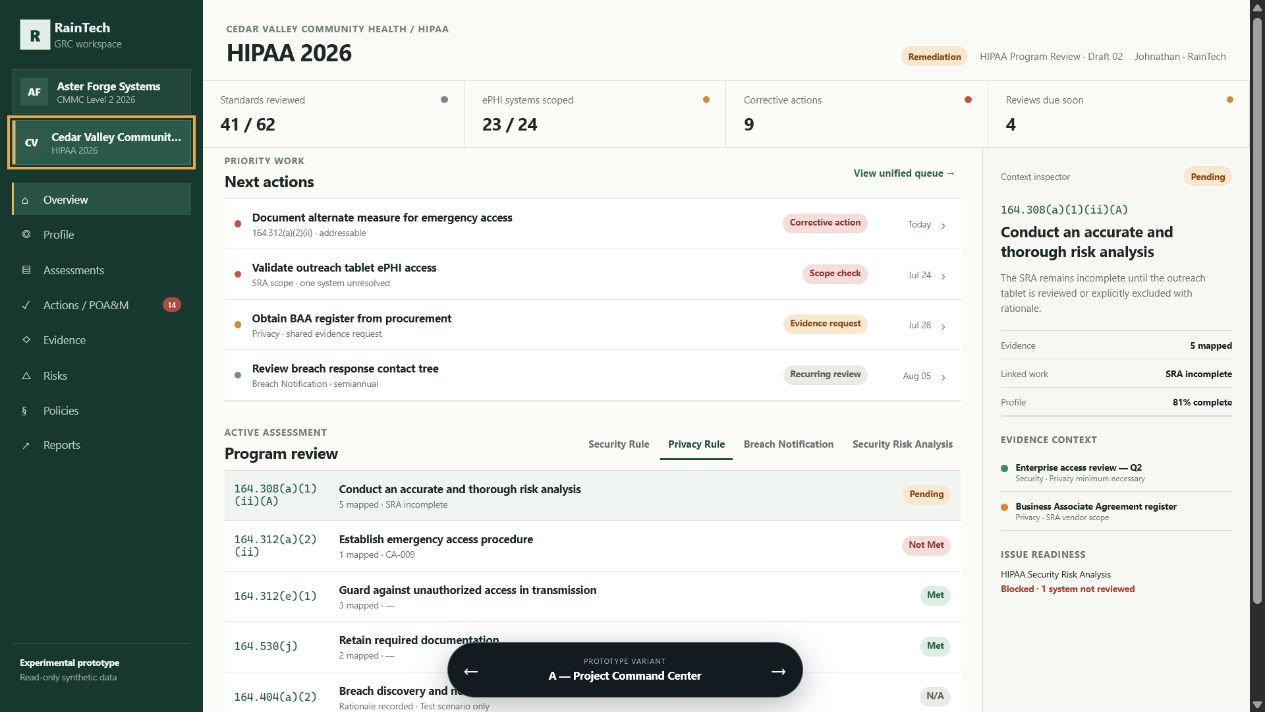
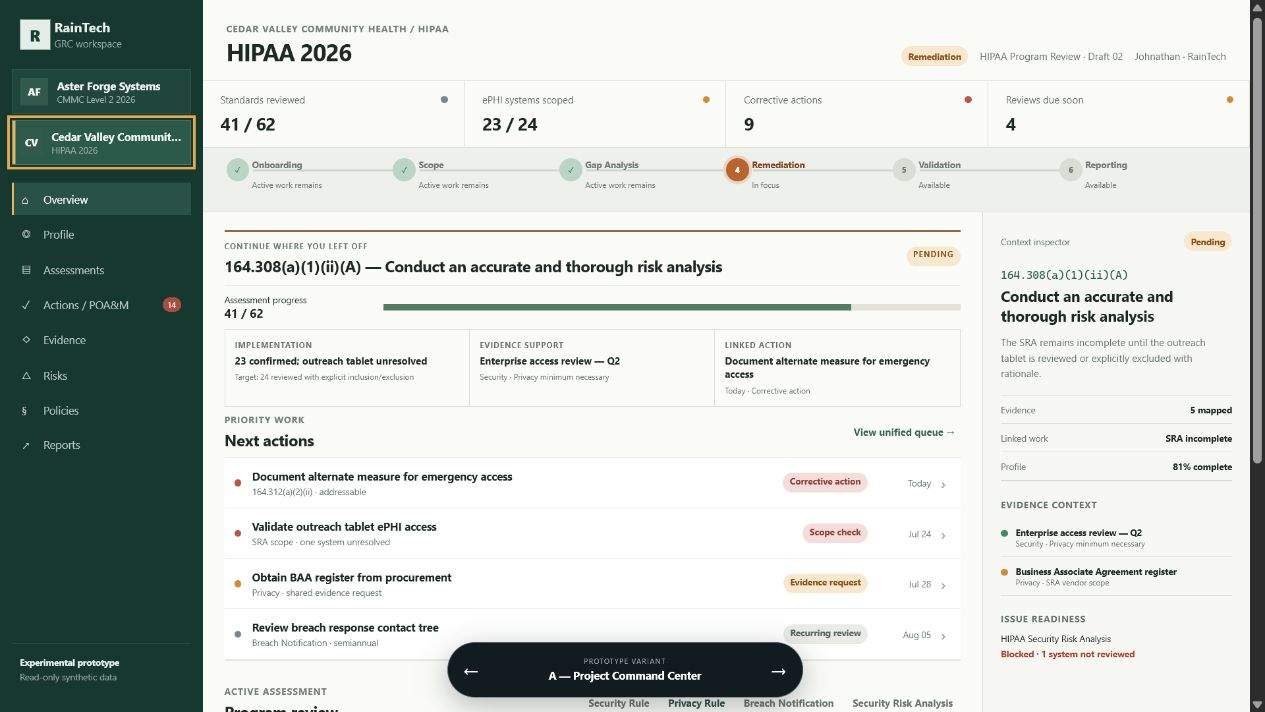
Refine Variant A with guided overview context

diff --git a/prototypes/v1-project-workspace/src/styles.css b/prototypes/v1-project-workspace/src/styles.css
@@ -92,8 +92,32 @@ i.good { background: #3c8d63; } i.warn { background: #d48a33; } i.bad { backgrou
 .sidebar-foot { margin-top: auto; padding: 12px 8px; border-top: 1px solid #34564d; display: flex; flex-direction: column; gap: 3px; font-size: 9px; }
 .sidebar-foot span { color: #97aaa4; }
 .a-main { grid-column: 2; min-width: 0; }
-.a-workspace { display: grid; grid-template-columns: minmax(600px, 1fr) 270px; gap: 0; max-width: 1380px; margin: auto; background: var(--paper); min-height: calc(100vh - 148px); }
+.a-phase-rail { display: grid; grid-template-columns: repeat(6, 1fr); padding: 11px 24px; border-bottom: 1px solid var(--line); background: #eef1eb; }
+.a-phase-rail > div { position: relative; min-height: 43px; display: grid; grid-template-columns: 26px 1fr; grid-template-rows: 21px 16px; text-align: left; color: #707a76; }
+.a-phase-rail > div::after { content: ""; height: 2px; background: #cfd5ce; position: absolute; left: 27px; right: -3px; top: 11px; z-index: 0; }
+.a-phase-rail > div:last-child::after { display: none; }
+.a-phase-rail i { z-index: 1; grid-row: 1 / 3; width: 23px; height: 23px; display: grid; place-items: center; border-radius: 50%; background: #d9ddd6; font-size: 8px; font-style: normal; font-weight: 800; }
+.a-phase-rail span { z-index: 1; font-size: 9px; font-weight: 700; }
+.a-phase-rail small { z-index: 1; font-size: 8px; white-space: nowrap; }
+.a-phase-rail > div.done i { background: #bad5c5; color: #285b45; }
+.a-phase-rail > div.active { color: #7c431e; }
+.a-phase-rail > div.active i { background: #b9642e; color: white; box-shadow: 0 0 0 3px #ead5c6; }
+.a-workspace { display: grid; grid-template-columns: minmax(600px, 1fr) 270px; gap: 0; max-width: 1380px; margin: auto; background: var(--paper); min-height: calc(100vh - 214px); }
 .a-workspace > section { padding: 0 22px 100px; min-width: 0; border-right: 1px solid var(--line); }
+.a-resume { margin-top: 18px; border-top: 2px solid #9a6540; border-bottom: 1px solid var(--line); }
+.a-resume-head { min-height: 53px; display: flex; align-items: center; justify-content: space-between; gap: 16px; }
+.a-resume-head > div { min-width: 0; }
+.a-resume-head span { display: block; margin-bottom: 4px; color: #75807b; font-size: 8px; font-weight: 700; letter-spacing: .09em; text-transform: uppercase; }
+.a-resume-head h2 { white-space: nowrap; overflow: hidden; text-overflow: ellipsis; }
+.a-resume-progress { min-height: 45px; display: grid; grid-template-columns: 145px 1fr; align-items: center; gap: 16px; border-top: 1px solid var(--line); }
+.a-resume-progress > div:first-child { display: flex; flex-direction: column; font-size: 9px; }
+.a-resume-progress b { font-size: 12px; }
+.a-resume-context { display: grid; grid-template-columns: repeat(3, 1fr); border: 1px solid var(--line); border-bottom: 0; }
+.a-resume-context > div { min-height: 77px; padding: 10px; border-right: 1px solid var(--line); display: flex; flex-direction: column; gap: 4px; }
+.a-resume-context > div:last-child { border-right: 0; }
+.a-resume-context span { color: var(--muted); font-size: 8px; font-weight: 700; letter-spacing: .07em; text-transform: uppercase; }
+.a-resume-context b { font-size: 10px; line-height: 1.35; }
+.a-resume-context small { font-size: 8px; line-height: 1.35; }
 .a-inspector { padding: 19px 18px 100px; background: #f7f8f4; }
 .inspector-head { display: flex; justify-content: space-between; align-items: center; font-size: 9px; color: var(--muted); margin-bottom: 18px; }
 .a-inspector > code { display: block; margin-bottom: 5px; }
@@ -223,6 +247,8 @@ i.good { background: #3c8d63; } i.warn { background: #d48a33; } i.bad { backgrou
 @media (max-width: 1250px) {
   .a-workspace { grid-template-columns: minmax(560px, 1fr) 245px; }
   .a-inspector { padding-inline: 14px; }
+  .a-phase-rail { padding-inline: 16px; }
+  .a-phase-rail small { display: none; }
   .b-flow { grid-template-columns: minmax(590px, 1fr) 275px; gap: 20px; }
   .phase-rail { padding-inline: 16px; }
   .phase-rail small { display: none; }

diff --git a/prototypes/v1-project-workspace/src/main.tsx b/prototypes/v1-project-workspace/src/main.tsx
@@ -190,8 +190,11 @@ function ProfileTable({ project }: { project: Project }) {
   return <div className="profile-table"><div className="profile-head"><span>Profile fact</span><span>Current environment</span><span>Target / required delta</span></div>{project.profileFacts.map((fact) => <div key={fact.label}><b>{fact.label}</b><span>{fact.current}</span><span>{fact.target}</span></div>)}</div>;
 }
 
+const phases = ["Onboarding", "Scope", "Gap Analysis", "Remediation", "Validation", "Reporting"];
+
 function VariantA({ project, framework, onProjectChange }: { project: Project; framework: Framework; onProjectChange: (value: Framework) => void }) {
   const nav = ["Overview", "Profile", "Assessments", "Actions / POA&M", "Evidence", "Risks", "Policies", "Reports"];
+  const activePhase = project.phase === "Gap Analysis" ? 2 : 3;
   return (
     <div className="variant-a">
       <aside className="a-sidebar">
@@ -203,8 +206,32 @@ function VariantA({ project, framework, onProjectChange }: { project: Project; f
       <main className="a-main">
         <Identity project={project} />
         <Metrics project={project} />
+        <div className="a-phase-rail" aria-label="Engagement phases">
+          {phases.map((phase, index) => (
+            <div className={index === activePhase ? "active" : index < activePhase ? "done" : ""} key={phase}>
+              <i>{index < activePhase ? "✓" : index + 1}</i>
+              <span>{phase}</span>
+              <small>{index === activePhase ? "In focus" : index < activePhase ? "Active work remains" : "Available"}</small>
+            </div>
+          ))}
+        </div>
         <div className="a-workspace">
           <section>
+            <div className="a-resume">
+              <div className="a-resume-head">
+                <div><span>Continue where you left off</span><h2>{project.requirements[0].id} — {project.requirements[0].title}</h2></div>
+                <Pill tone="warn">{project.requirements[0].status}</Pill>
+              </div>
+              <div className="a-resume-progress">
+                <div><span>Assessment progress</span><b>{project.metrics[0].value}</b></div>
+                <div className="bar"><i style={{ width: `${project.profile}%` }} /></div>
+              </div>
+              <div className="a-resume-context">
+                <div><span>Implementation</span><b>{project.profileFacts[0].current}</b><small>Target: {project.profileFacts[0].target}</small></div>
+                <div><span>Evidence support</span><b>{project.evidence[0].title}</b><small>{project.evidence[0].mappings}</small></div>
+                <div><span>Linked action</span><b>{project.actions[0].title}</b><small>{project.actions[0].due} · {project.actions[0].kind}</small></div>
+              </div>
+            </div>
             <div className="section-title"><div><span>Priority work</span><h2>Next actions</h2></div><button>View unified queue →</button></div>
             <ActionRows project={project} />
             <div className="section-title tight"><div><span>Active assessment</span><h2>{project.framework === "CMMC" ? "Requirement review" : "Program review"}</h2></div><div className="tabs">{project.frameworkAreas.slice(0, 4).map((area, i) => <button className={i === 1 ? "active" : ""} key={area}>{area}</button>)}</div></div>
@@ -226,8 +253,6 @@ function VariantA({ project, framework, onProjectChange }: { project: Project; f
     </div>
   );
 }
-
-const phases = ["Onboarding", "Scope", "Gap Analysis", "Remediation", "Validation", "Reporting"];
 
 function VariantB({ project, framework, onProjectChange }: { project: Project; framework: Framework; onProjectChange: (value: Framework) => void }) {
   const activePhase = project.phase === "Gap Analysis" ? 2 : 3;

diff --git a/docs/prototypes/v1-ui-prototype-review.md b/docs/prototypes/v1-ui-prototype-review.md
@@ -39,13 +39,23 @@ project selector.
 
 ## Selection Record
 
-After review, record:
+Initial direction selected by Johnathan:
 
-- selected shell
-- selected assessment workspace
-- selected action model
-- elements borrowed from another variant
-- rejected tradeoffs and why
+- **Base shell:** Variant A, Project Command Center.
+- **Assessment workspace:** retain A's dense requirement list and right-side
+  context inspector.
+- **Overview additions from B:** add a compact engagement-phase rail and a
+  "continue where you left off" panel showing assessment progress,
+  implementation context, evidence support, and the linked action.
+- **Action model:** retain A's project Overview and direct navigation, with the
+  unified queue available as a deliberate secondary destination.
+- **Rejected tradeoff from B:** do not make the entire workspace phase-first;
+  the full phase shell consumes vertical space and can overstate sequentiality.
+- **Rejected tradeoff from C:** do not make the cross-project queue the default
+  home; it weakens project orientation for deep assessment work.
+
+This is an interaction-model decision, not approval to promote prototype code.
+The production shell must be implemented afresh under a production ticket.
 
 Production implementation requires a new approved ticket and a fresh,
 tested implementation rather than promotion of this prototype code.

diff --git a/PROJECT_STATUS.md b/PROJECT_STATUS.md
@@ -10,8 +10,8 @@ Build
 
 ## Current objective
 
-Compare the three completed V1 project workspace UI variants and select the
-production interaction model.
+Confirm the hybrid A interaction model and use the recorded decision to shape
+the production workspace ticket.
 
 ## Approved specification
 
@@ -31,10 +31,13 @@ GitHub issue #20: Prototype V1 project workspace UI variants.
 - Tech-debt and bloat review gates added to delivery workflow.
 - Three read-only V1 project workspace UI variants built and visually verified
   for GitHub issue #20.
+- Initial interaction direction selected: Variant A shell and assessment
+  workspace with Variant B's compact phase rail and work-resumption context on
+  the Overview.
 
 ## In progress
 
-- UI prototype review and interaction-model selection.
+- Final hybrid-A review and production ticket handoff.
 
 ## Blocked
 
@@ -48,5 +51,5 @@ GitHub issue #20: Prototype V1 project workspace UI variants.
 
 ## Next recommended action
 
-Review variants A, B, and C, then document the selected shell, assessment
-workspace, and action model before production UI implementation begins.
+Confirm the revised hybrid A, then create an approved production ticket that
+reimplements the selected interaction model without promoting prototype code.
